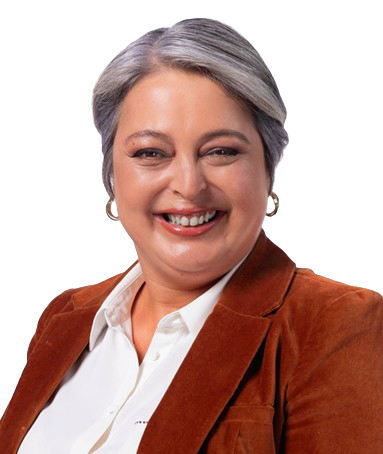
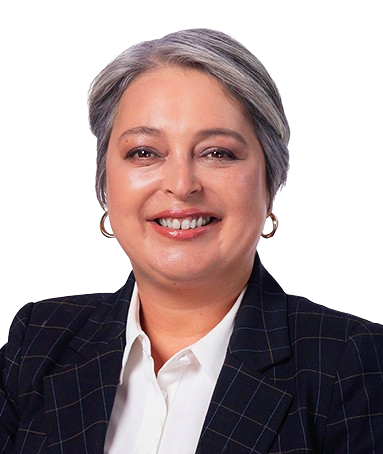
Change candidate photos

diff --git a/app.librerias/js/pubNub.swich.totem.preview.js b/app.librerias/js/pubNub.swich.totem.preview.js
@@ -53,7 +53,7 @@ const path_app_zonas = path_app + '/app.librerias/zonas.json?v=3.7'
 //	URL del repositorio de las imagenes
 	const path_imagenes = path_app + '/app.imagenes/'
 	const path_imagenes_candidatos = path_imagenes + 'candidatos/'
-	const path_imagenes_candidatos_error = path_imagenes + 'candidatos/000.png?v=2.0'
+	const path_imagenes_candidatos_error = path_imagenes + 'candidatos/000.png?v=2.1'
 
 //	-			-			-			-			-			-			-			-			-			-			-			-			
 
@@ -515,7 +515,7 @@ const path_app_zonas = path_app + '/app.librerias/zonas.json?v=3.7'
 
 			//	Asignar los elementos al div
 				objeto.innerHTML = `<div class="candidato-imagen">
-										<img class="candidato-imagen-src" src="${path_imagenes_candidatos}${candidato.id}.png?v=2.0" />
+										<img class="candidato-imagen-src" src="${path_imagenes_candidatos}${candidato.id}.png?v=2.1" />
 									</div>
 									<div class="candidato-detalles">
 										<div class="candidato-detalles-nombre">${candidato.nombres}</div>
@@ -761,7 +761,7 @@ const path_app_zonas = path_app + '/app.librerias/zonas.json?v=3.7'
 
 			//	Asignar los elementos al div
 				objeto.innerHTML = `<div class="candidato-imagen">
-										<img src="${path_imagenes_candidatos}${candidato.id}.png?v=2.0" class="candidato-imagen-src" />
+										<img src="${path_imagenes_candidatos}${candidato.id}.png?v=2.1" class="candidato-imagen-src" />
 									</div>
 									<div class="candidato-info">
 										<div class="candidato-detalles">

diff --git a/app.librerias/js/pubNub.swich.totem.js b/app.librerias/js/pubNub.swich.totem.js
@@ -53,7 +53,7 @@
 //	URL del repositorio de las imagenes
 	const path_imagenes = path_app + '/app.imagenes/'
 	const path_imagenes_candidatos = path_imagenes + 'candidatos/'
-	const path_imagenes_candidatos_error = path_imagenes + 'candidatos/000.png?v=2.0'
+	const path_imagenes_candidatos_error = path_imagenes + 'candidatos/000.png?v=2.1'
 
 //	-			-			-			-			-			-			-			-			-			-			-			-			
 
@@ -513,7 +513,7 @@
 
 			//	Asignar los elementos al div
 				objeto.innerHTML = `<div class="candidato-imagen">
-										<img class="candidato-imagen-src" src="${path_imagenes_candidatos}${candidato.id}.png?v=2.0" />
+										<img class="candidato-imagen-src" src="${path_imagenes_candidatos}${candidato.id}.png?v=2.1" />
 									</div>
 									<div class="candidato-detalles">
 										<div class="candidato-detalles-nombre">${candidato.nombres}</div>
@@ -759,7 +759,7 @@
 
 			//	Asignar los elementos al div
 				objeto.innerHTML = `<div class="candidato-imagen">
-										<img src="${path_imagenes_candidatos}${candidato.id}.png?v=2.0" class="candidato-imagen-src" />
+										<img src="${path_imagenes_candidatos}${candidato.id}.png?v=2.1" class="candidato-imagen-src" />
 									</div>
 									<div class="candidato-info">
 										<div class="candidato-detalles">

diff --git a/configuracion.php b/configuracion.php
@@ -65,7 +65,7 @@
 //	INFORMACION DE LA APLICACION
 
 //	$_CONF_VERSION						=	"?alpha.".time();
-	$_CONF_VERSION						=	"?version.11.0";
+	$_CONF_VERSION						=	"?version.11.1";
 
 //	-		-		-		-		-		-		-		-		-		-		-		-		-		-		-		-	
 //	CREACION DE URLS AMIGABLES
